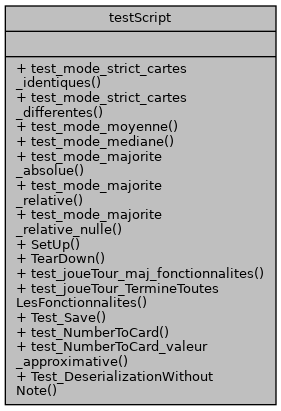
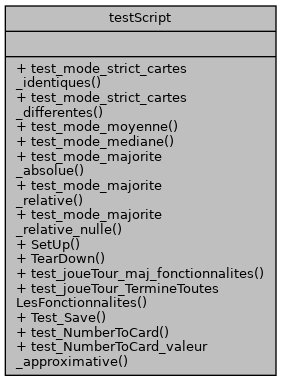
deploy: 87189f9072ddca38c53c3ffea09458c1f80dc478

Changed region(s): [[0.0, 0.1155, 0.9964, 1.0], [0.0285, 0.0, 0.9964, 0.0866]]

diff --git a/html/classtestScript-members.html b/html/classtestScript-members.html
@@ -71,19 +71,18 @@ $(function() {
 <table class="directory">
   <tr bgcolor="#f0f0f0" class="even"><td class="entry"><b>SetUp</b>() (defined in <a class="el" href="classtestScript.html">testScript</a>)</td><td class="entry"><a class="el" href="classtestScript.html">testScript</a></td><td class="entry"><span class="mlabel">inline</span></td></tr>
   <tr bgcolor="#f0f0f0"><td class="entry"><b>TearDown</b>() (defined in <a class="el" href="classtestScript.html">testScript</a>)</td><td class="entry"><a class="el" href="classtestScript.html">testScript</a></td><td class="entry"><span class="mlabel">inline</span></td></tr>
-  <tr bgcolor="#f0f0f0" class="even"><td class="entry"><b>Test_DeserializationWithoutNote</b>() (defined in <a class="el" href="classtestScript.html">testScript</a>)</td><td class="entry"><a class="el" href="classtestScript.html">testScript</a></td><td class="entry"><span class="mlabel">inline</span></td></tr>
-  <tr bgcolor="#f0f0f0"><td class="entry"><b>test_joueTour_maj_fonctionnalites</b>() (defined in <a class="el" href="classtestScript.html">testScript</a>)</td><td class="entry"><a class="el" href="classtestScript.html">testScript</a></td><td class="entry"><span class="mlabel">inline</span></td></tr>
-  <tr bgcolor="#f0f0f0" class="even"><td class="entry"><b>test_joueTour_TermineToutesLesFonctionnalites</b>() (defined in <a class="el" href="classtestScript.html">testScript</a>)</td><td class="entry"><a class="el" href="classtestScript.html">testScript</a></td><td class="entry"><span class="mlabel">inline</span></td></tr>
-  <tr bgcolor="#f0f0f0"><td class="entry"><b>test_mode_majorite_absolue</b>() (defined in <a class="el" href="classtestScript.html">testScript</a>)</td><td class="entry"><a class="el" href="classtestScript.html">testScript</a></td><td class="entry"><span class="mlabel">inline</span></td></tr>
-  <tr bgcolor="#f0f0f0" class="even"><td class="entry"><b>test_mode_majorite_relative</b>() (defined in <a class="el" href="classtestScript.html">testScript</a>)</td><td class="entry"><a class="el" href="classtestScript.html">testScript</a></td><td class="entry"><span class="mlabel">inline</span></td></tr>
-  <tr bgcolor="#f0f0f0"><td class="entry"><b>test_mode_majorite_relative_nulle</b>() (defined in <a class="el" href="classtestScript.html">testScript</a>)</td><td class="entry"><a class="el" href="classtestScript.html">testScript</a></td><td class="entry"><span class="mlabel">inline</span></td></tr>
-  <tr bgcolor="#f0f0f0" class="even"><td class="entry"><b>test_mode_mediane</b>() (defined in <a class="el" href="classtestScript.html">testScript</a>)</td><td class="entry"><a class="el" href="classtestScript.html">testScript</a></td><td class="entry"><span class="mlabel">inline</span></td></tr>
-  <tr bgcolor="#f0f0f0"><td class="entry"><b>test_mode_moyenne</b>() (defined in <a class="el" href="classtestScript.html">testScript</a>)</td><td class="entry"><a class="el" href="classtestScript.html">testScript</a></td><td class="entry"><span class="mlabel">inline</span></td></tr>
-  <tr bgcolor="#f0f0f0" class="even"><td class="entry"><b>test_mode_strict_cartes_differentes</b>() (defined in <a class="el" href="classtestScript.html">testScript</a>)</td><td class="entry"><a class="el" href="classtestScript.html">testScript</a></td><td class="entry"><span class="mlabel">inline</span></td></tr>
-  <tr bgcolor="#f0f0f0"><td class="entry"><b>test_mode_strict_cartes_identiques</b>() (defined in <a class="el" href="classtestScript.html">testScript</a>)</td><td class="entry"><a class="el" href="classtestScript.html">testScript</a></td><td class="entry"><span class="mlabel">inline</span></td></tr>
-  <tr bgcolor="#f0f0f0" class="even"><td class="entry"><b>test_NumberToCard</b>() (defined in <a class="el" href="classtestScript.html">testScript</a>)</td><td class="entry"><a class="el" href="classtestScript.html">testScript</a></td><td class="entry"><span class="mlabel">inline</span></td></tr>
-  <tr bgcolor="#f0f0f0"><td class="entry"><b>test_NumberToCard_valeur_approximative</b>() (defined in <a class="el" href="classtestScript.html">testScript</a>)</td><td class="entry"><a class="el" href="classtestScript.html">testScript</a></td><td class="entry"><span class="mlabel">inline</span></td></tr>
-  <tr bgcolor="#f0f0f0" class="even"><td class="entry"><b>Test_Save</b>() (defined in <a class="el" href="classtestScript.html">testScript</a>)</td><td class="entry"><a class="el" href="classtestScript.html">testScript</a></td><td class="entry"><span class="mlabel">inline</span></td></tr>
+  <tr bgcolor="#f0f0f0" class="even"><td class="entry"><b>test_joueTour_maj_fonctionnalites</b>() (defined in <a class="el" href="classtestScript.html">testScript</a>)</td><td class="entry"><a class="el" href="classtestScript.html">testScript</a></td><td class="entry"><span class="mlabel">inline</span></td></tr>
+  <tr bgcolor="#f0f0f0"><td class="entry"><b>test_joueTour_TermineToutesLesFonctionnalites</b>() (defined in <a class="el" href="classtestScript.html">testScript</a>)</td><td class="entry"><a class="el" href="classtestScript.html">testScript</a></td><td class="entry"><span class="mlabel">inline</span></td></tr>
+  <tr bgcolor="#f0f0f0" class="even"><td class="entry"><b>test_mode_majorite_absolue</b>() (defined in <a class="el" href="classtestScript.html">testScript</a>)</td><td class="entry"><a class="el" href="classtestScript.html">testScript</a></td><td class="entry"><span class="mlabel">inline</span></td></tr>
+  <tr bgcolor="#f0f0f0"><td class="entry"><b>test_mode_majorite_relative</b>() (defined in <a class="el" href="classtestScript.html">testScript</a>)</td><td class="entry"><a class="el" href="classtestScript.html">testScript</a></td><td class="entry"><span class="mlabel">inline</span></td></tr>
+  <tr bgcolor="#f0f0f0" class="even"><td class="entry"><b>test_mode_majorite_relative_nulle</b>() (defined in <a class="el" href="classtestScript.html">testScript</a>)</td><td class="entry"><a class="el" href="classtestScript.html">testScript</a></td><td class="entry"><span class="mlabel">inline</span></td></tr>
+  <tr bgcolor="#f0f0f0"><td class="entry"><b>test_mode_mediane</b>() (defined in <a class="el" href="classtestScript.html">testScript</a>)</td><td class="entry"><a class="el" href="classtestScript.html">testScript</a></td><td class="entry"><span class="mlabel">inline</span></td></tr>
+  <tr bgcolor="#f0f0f0" class="even"><td class="entry"><b>test_mode_moyenne</b>() (defined in <a class="el" href="classtestScript.html">testScript</a>)</td><td class="entry"><a class="el" href="classtestScript.html">testScript</a></td><td class="entry"><span class="mlabel">inline</span></td></tr>
+  <tr bgcolor="#f0f0f0"><td class="entry"><b>test_mode_strict_cartes_differentes</b>() (defined in <a class="el" href="classtestScript.html">testScript</a>)</td><td class="entry"><a class="el" href="classtestScript.html">testScript</a></td><td class="entry"><span class="mlabel">inline</span></td></tr>
+  <tr bgcolor="#f0f0f0" class="even"><td class="entry"><b>test_mode_strict_cartes_identiques</b>() (defined in <a class="el" href="classtestScript.html">testScript</a>)</td><td class="entry"><a class="el" href="classtestScript.html">testScript</a></td><td class="entry"><span class="mlabel">inline</span></td></tr>
+  <tr bgcolor="#f0f0f0"><td class="entry"><b>test_NumberToCard</b>() (defined in <a class="el" href="classtestScript.html">testScript</a>)</td><td class="entry"><a class="el" href="classtestScript.html">testScript</a></td><td class="entry"><span class="mlabel">inline</span></td></tr>
+  <tr bgcolor="#f0f0f0" class="even"><td class="entry"><b>test_NumberToCard_valeur_approximative</b>() (defined in <a class="el" href="classtestScript.html">testScript</a>)</td><td class="entry"><a class="el" href="classtestScript.html">testScript</a></td><td class="entry"><span class="mlabel">inline</span></td></tr>
+  <tr bgcolor="#f0f0f0"><td class="entry"><b>Test_Save</b>() (defined in <a class="el" href="classtestScript.html">testScript</a>)</td><td class="entry"><a class="el" href="classtestScript.html">testScript</a></td><td class="entry"><span class="mlabel">inline</span></td></tr>
 </table></div><!-- contents -->
 <!-- start footer part -->
 <hr class="footer"/><address class="footer"><small>

diff --git a/html/classtestScript.html b/html/classtestScript.html
@@ -74,7 +74,7 @@ Collaboration diagram for testScript:</div>
 <div class="dyncontent">
 <div class="center"><img src="classtestScript__coll__graph.png" border="0" usemap="#atestScript_coll__map" alt="Collaboration graph"/></div>
 <map name="atestScript_coll__map" id="atestScript_coll__map">
-<area shape="rect" title=" " alt="" coords="5,5,276,405"/>
+<area shape="rect" title=" " alt="" coords="5,5,276,376"/>
 </map>
 </div>
 <table class="memberdecls">
@@ -122,9 +122,6 @@ void&#160;</td><td class="memItemRight" valign="bottom"><b>test_NumberToCard</b>
 <tr class="memitem:ade9c8a0ad27cb47fa22e9c58de3626ee"><td class="memItemLeft" align="right" valign="top"><a id="ade9c8a0ad27cb47fa22e9c58de3626ee"></a>
 void&#160;</td><td class="memItemRight" valign="bottom"><b>test_NumberToCard_valeur_approximative</b> ()</td></tr>
 <tr class="separator:ade9c8a0ad27cb47fa22e9c58de3626ee"><td class="memSeparator" colspan="2">&#160;</td></tr>
-<tr class="memitem:a9d8781b9901b288c6db371ccbaa564b9"><td class="memItemLeft" align="right" valign="top"><a id="a9d8781b9901b288c6db371ccbaa564b9"></a>
-void&#160;</td><td class="memItemRight" valign="bottom"><b>Test_DeserializationWithoutNote</b> ()</td></tr>
-<tr class="separator:a9d8781b9901b288c6db371ccbaa564b9"><td class="memSeparator" colspan="2">&#160;</td></tr>
 </table>
 <hr/>The documentation for this class was generated from the following file:<ul>
 <li>Assets/Scripts/Tests/testScript.cs</li>
